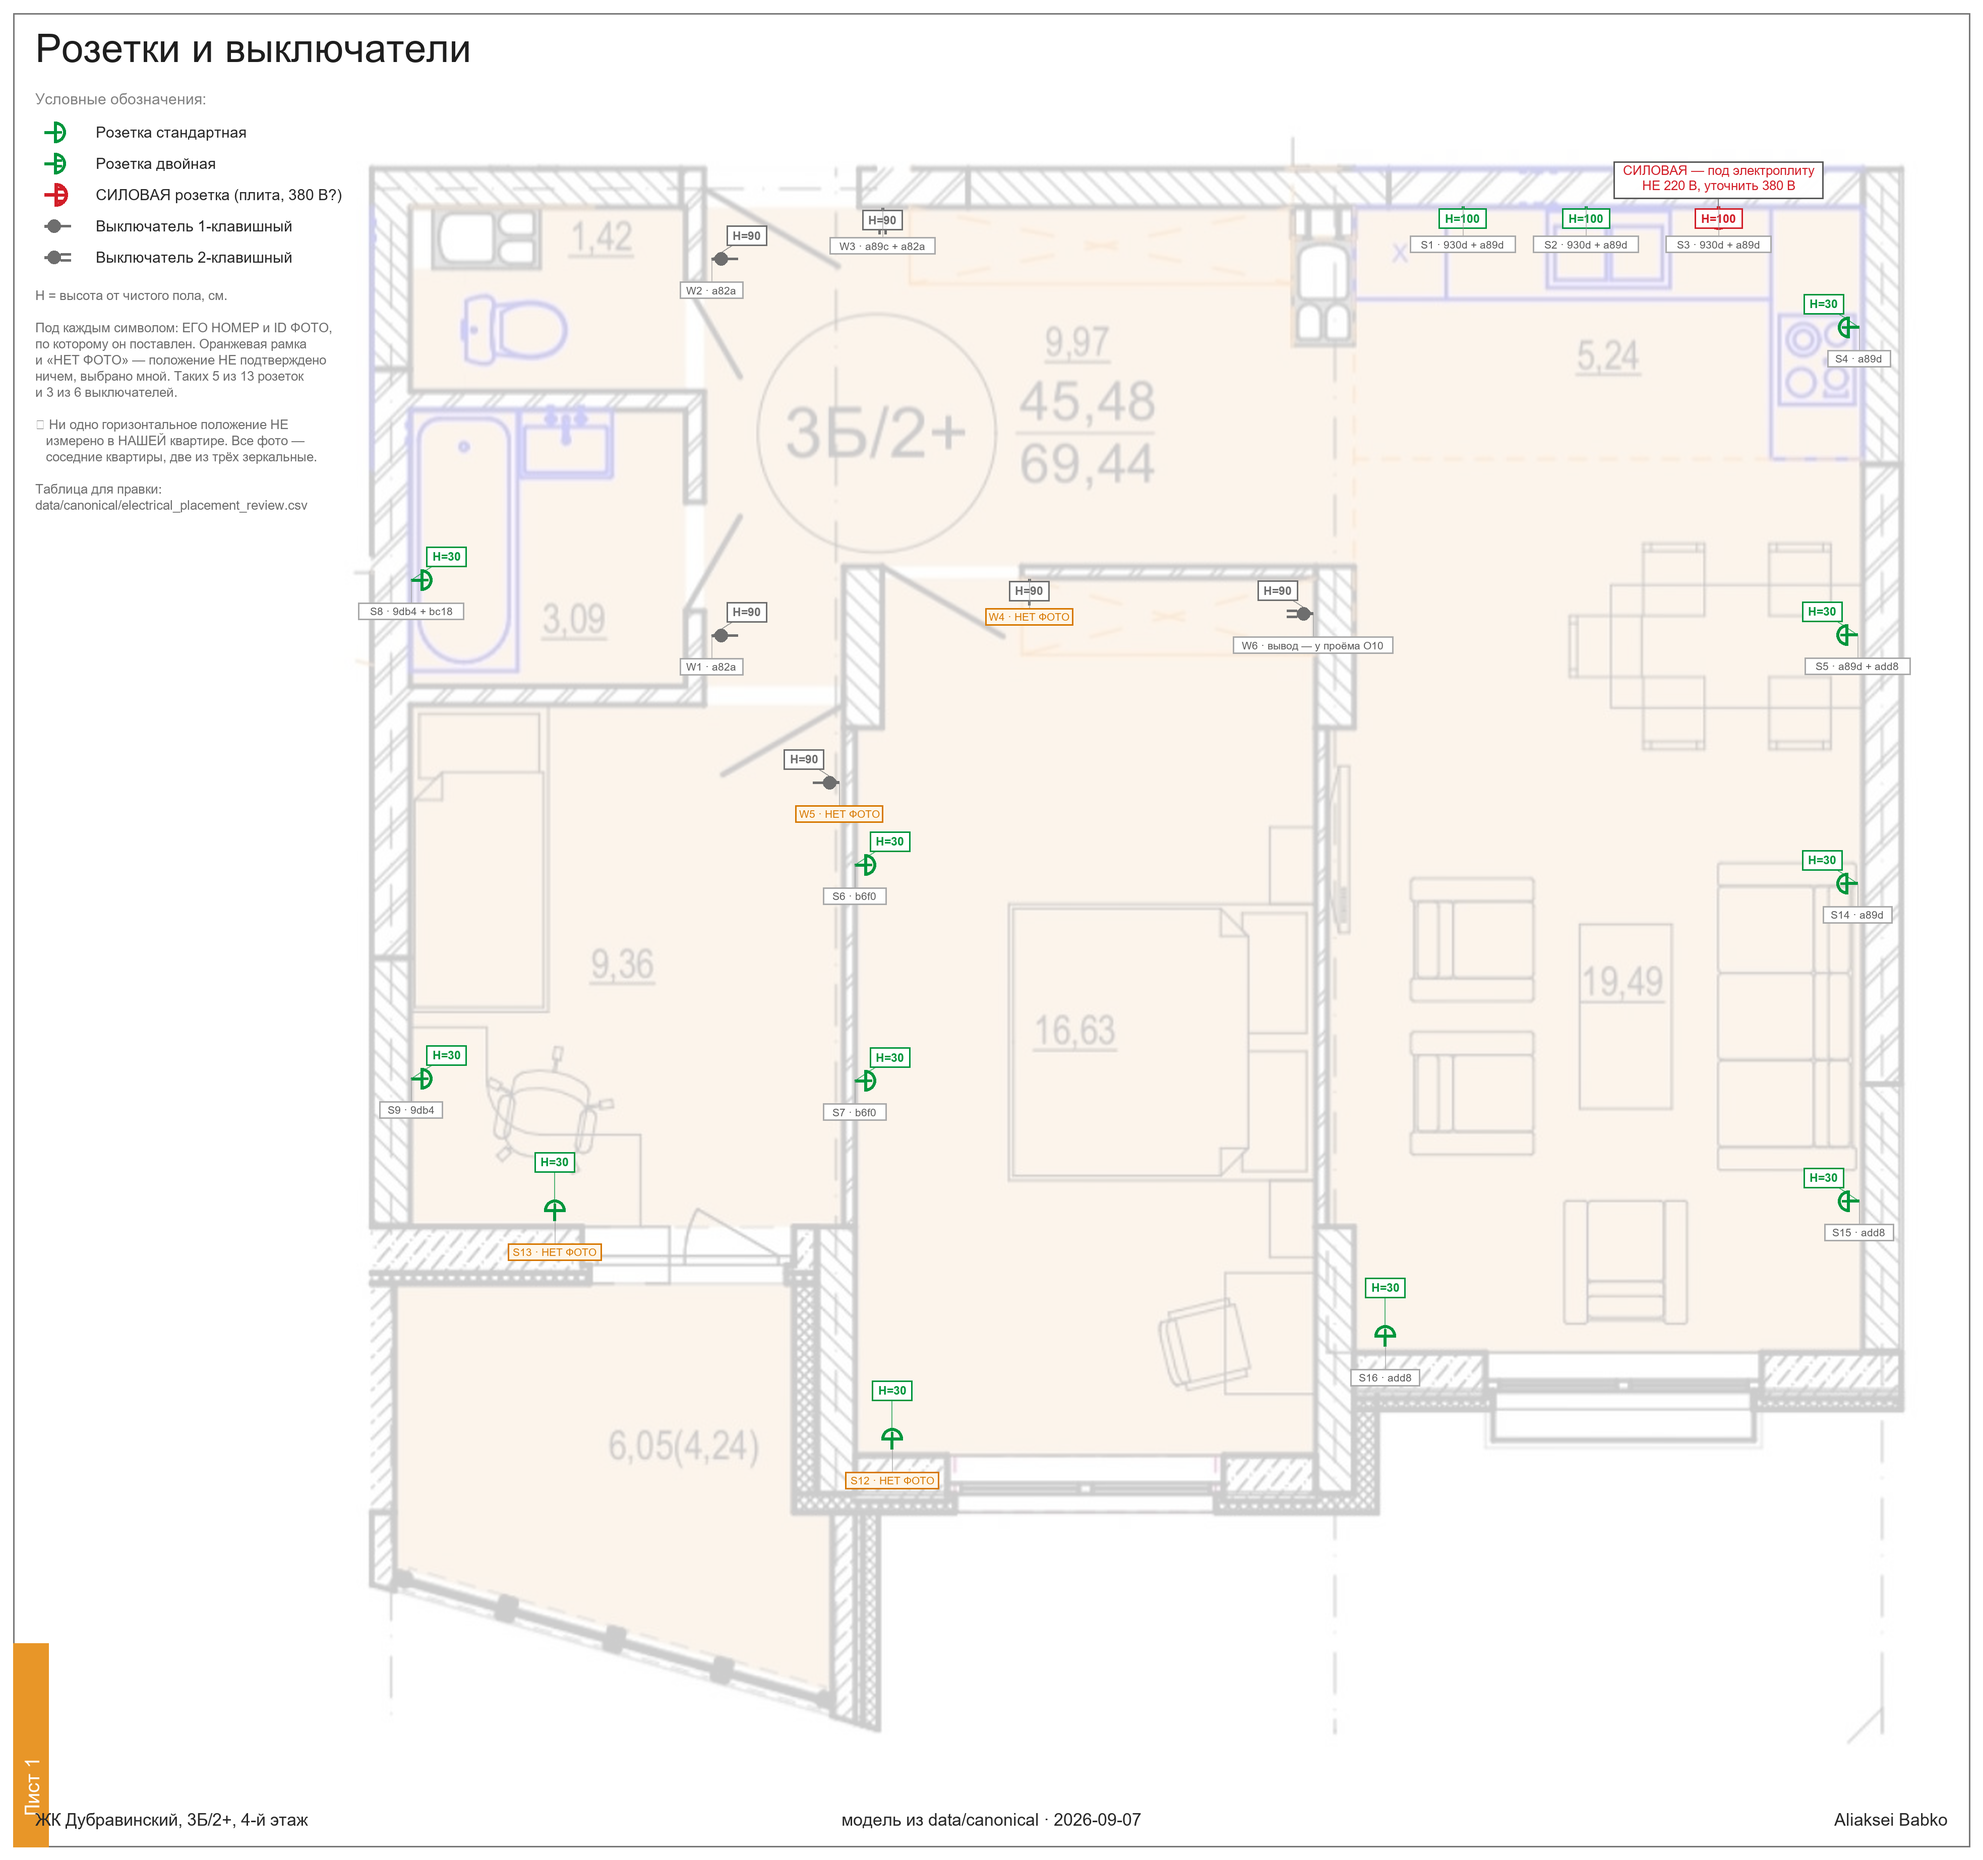
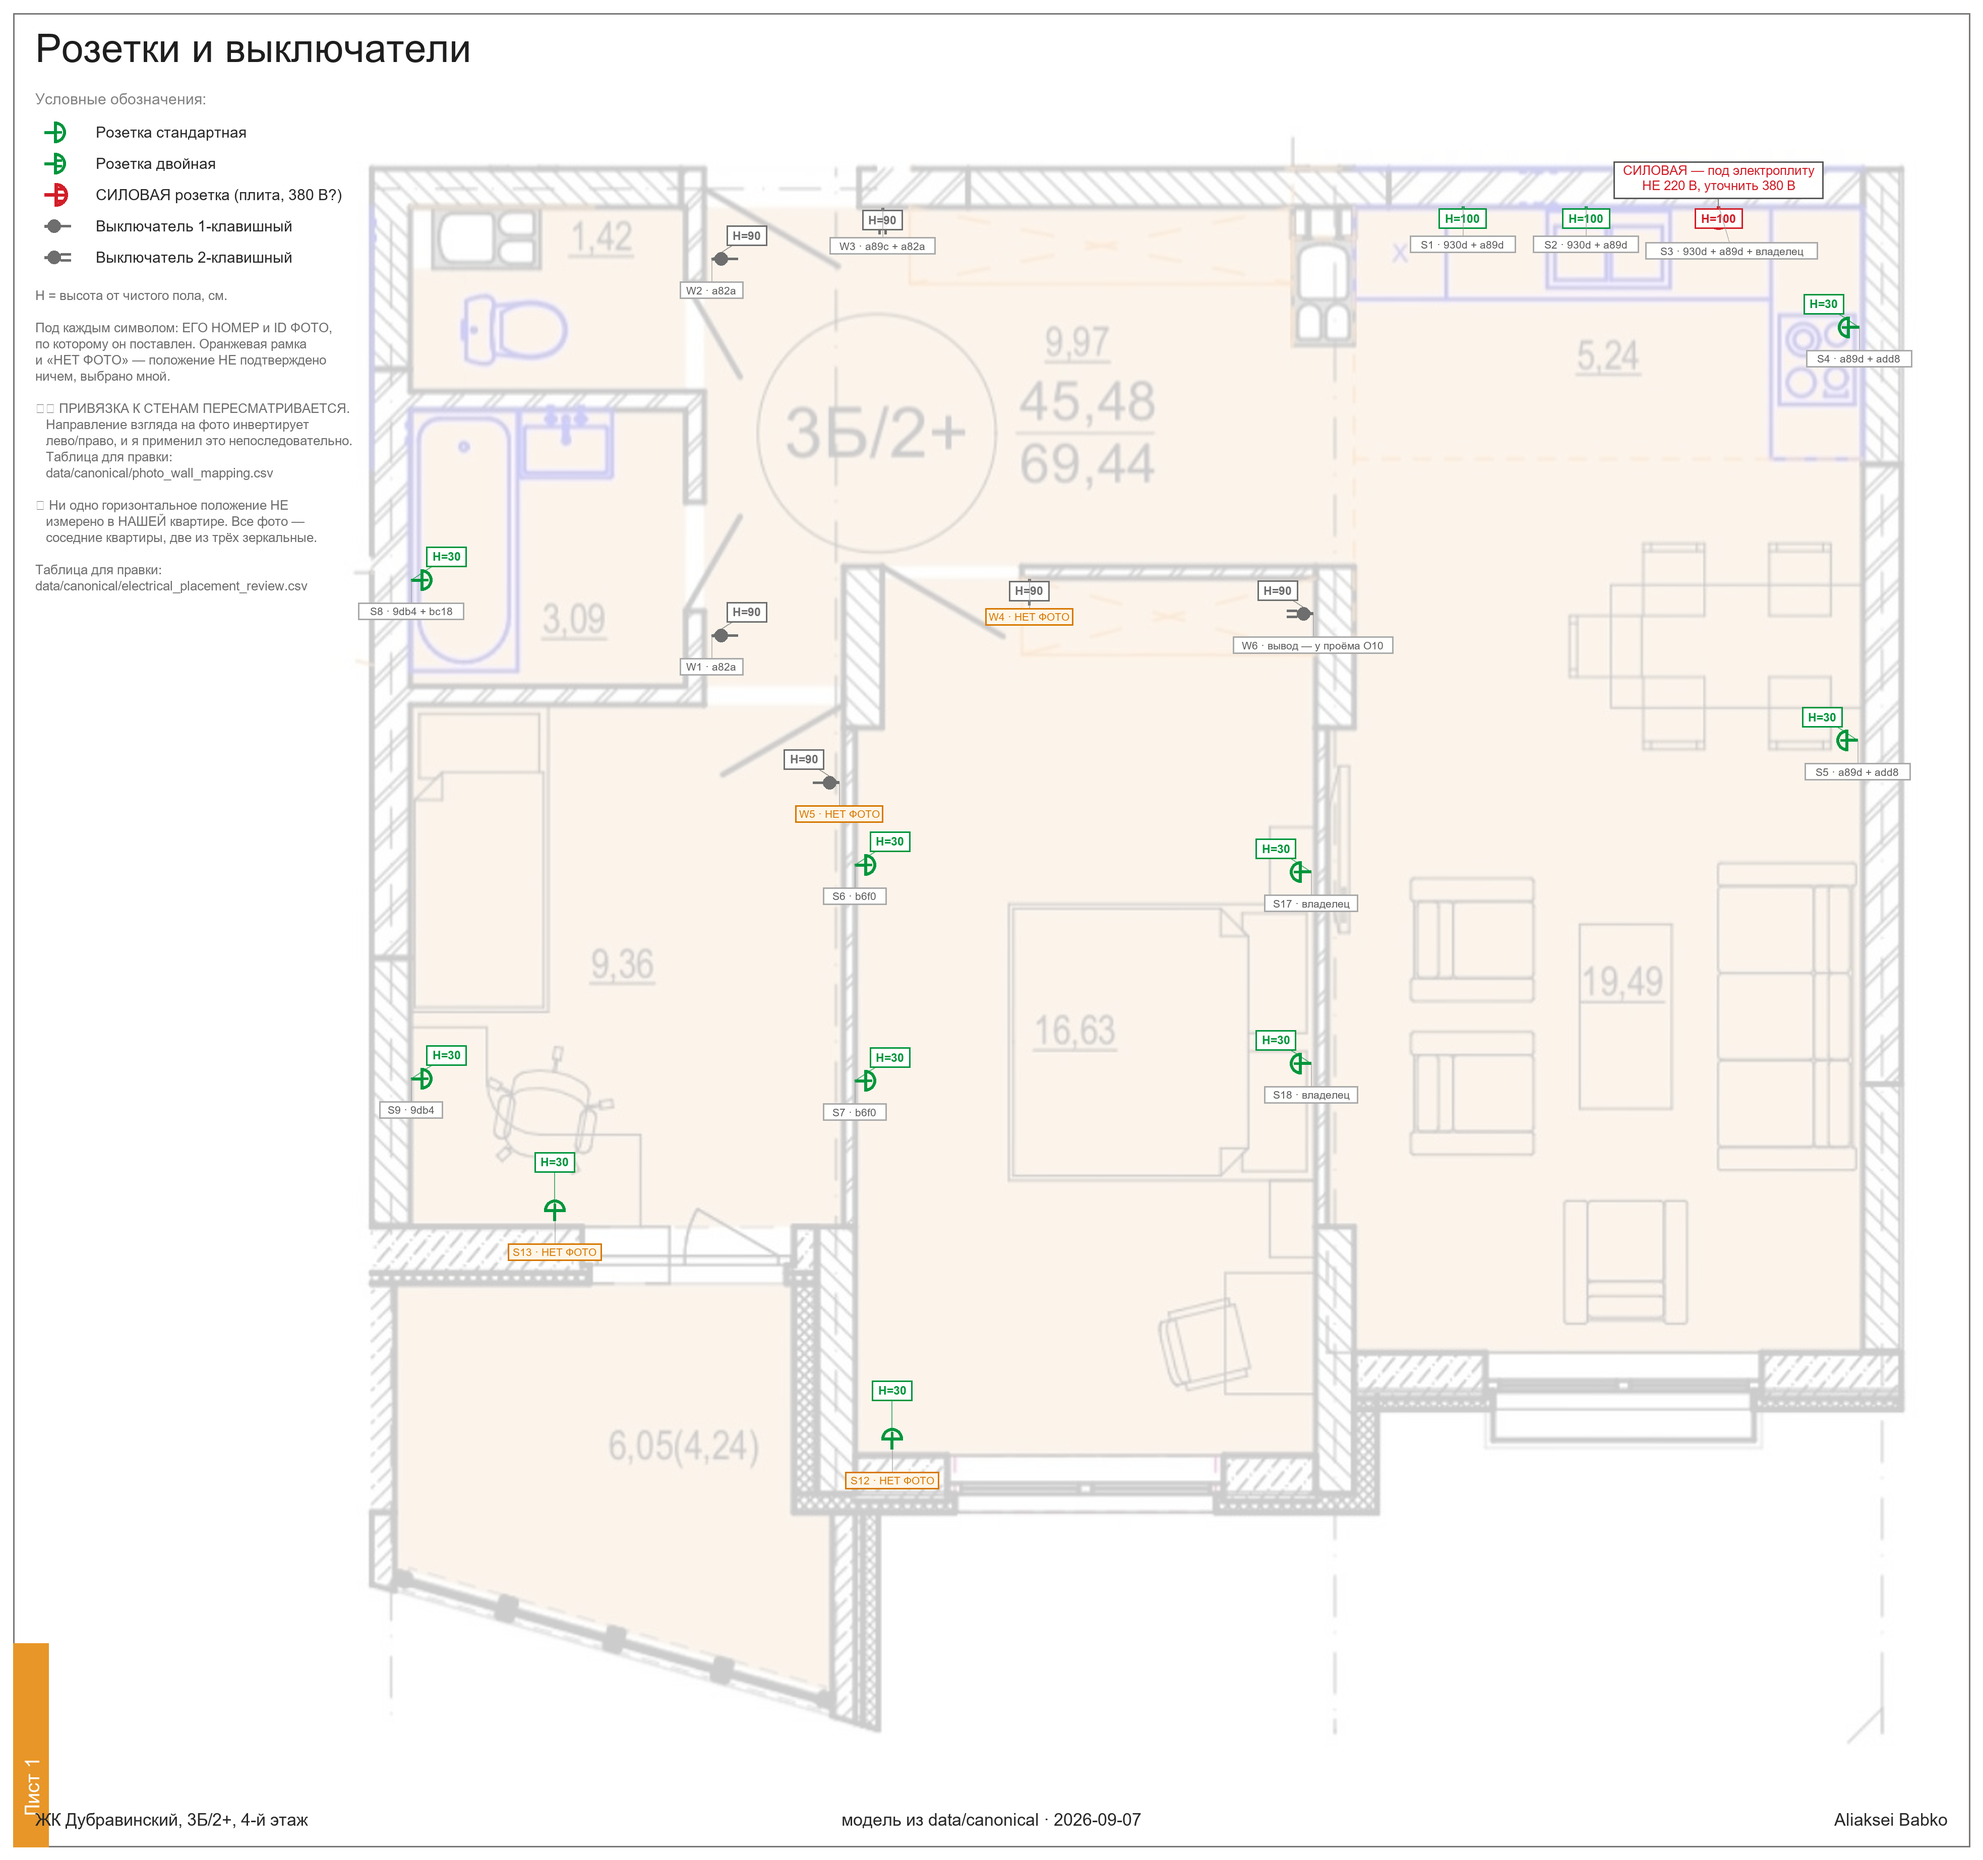
Wall assignment was wrong twice - stop inferring it, make it a table he corrects
THE ERROR: the view direction inverts left and right, and I did not apply it
consistently. Looking NE your left hand points NW; looking SE your left hand
points NE. So "the left wall" is a different compass wall in the two photos - and
I read left as west in both. a89d looking NE does have west on the left, but add8
looking SE has EAST on the left, which is our G7 rather than our party run. That
one inversion moved every socket in the room to the wrong wall.

AND CORRECTING IT WAS STILL NOT ENOUGH. Even with the inversion fixed, my counts
disagree with what he reads directly: G7 should carry TWO outlets and no switches
(I had zero, and before that a switch); MC the window wall should carry NONE (I
had one); the east party run has fewer than the four I drew. So this is not one
sign error - I cannot reliably read wall assignment off these photographs, and I
have now got it wrong twice while sounding confident both times.

THE FIX IS A TABLE HE CAN CORRECT: data/canonical/photo_wall_mapping.csv, one row
per photo with the view direction and which of OUR wall ids is far, left and
right, plus my_confidence and an empty owner_correction column. 27 photos, and
only 5 marked high confidence - 930d, 9902, 9e9b, a82a, ade6, the frontal ones.
The other 22 say uncertain.

Why a table rather than another drawing: the drawing is the wrong thing to
correct. Every placement derives from a wall assignment, so one error there
[…]

diff --git a/tools/layout/sheets/make_services_sheets.py b/tools/layout/sheets/make_services_sheets.py
@@ -21,29 +21,34 @@ NOPH = u'НЕТ ФОТО'
 
 # id, wall, t, face, gang, H cm, source photo ids, what the photo shows
 SOCK = [
- # КУХНЯ-ГОСТИНАЯ. The north-wall row is confirmed twice: 930d shows three at
- # H=100 above the worktop, a89d shows the same three at mid height on the far
- # wall. The third of them is the HOB line - see POWER below.
+ # ============ КУХНЯ-ГОСТИНАЯ ============
+ # The north-wall row is the only placement in this room with two independent
+ # photos agreeing: 930d (close to frontal, H=100 above the worktop) and a89d
+ # (the same three boxes at mid height on the far wall).
  ('S1', 'G3', 0.16, +1, 2, 100, '930d + a89d', u'ряд из 3 розеток над столешницей, H=100'),
  ('S2', 'G3', 0.42, +1, 2, 100, '930d + a89d', u'то же, средняя в ряду'),
- # the EAST long wall - three low boxes in a89d plus one in add8 (their WEST wall)
- ('S4', 'R2', 0.55, +1, 1, 30, 'a89d', u'низкая розетка на длинной стене (зеркальная кв.)'),
- ('S5', 'G5', 0.28, +1, 1, 30, 'a89d + add8', u'то же, вторая'),
- ('S14', 'G5', 0.68, +1, 1, 30, 'a89d', u'то же, третья'),
- ('S15', 'R7', 0.45, +1, 1, 30, 'add8', u'низкая розетка ближе к окну'),
- ('S16', 'MC', 0.06, -1, 1, 30, 'add8', u'розетка у откоса окна, вне зоны радиатора'),
- # СРЕДНЯЯ КОМНАТА
- ('S6', 'G8', 0.30, -1, 1, 30, 'b6f0', u'2 низкие розетки в средней комнате; СТЕНА не определена'),
+ # G7 - the wall to the middle room. TWO outlets, no switches, per the owner
+ # 2026-09-07. I had left it empty; before that I had put a switch on it.
+ ('S17', 'G7', 0.30, +1, 1, 30, u'владелец', u'ВЛАДЕЛЕЦ: на G7 две розетки, выключателей нет'),
+ ('S18', 'G7', 0.68, +1, 1, 30, u'владелец', u'то же, вторая'),
+ # the east party run - REDUCED from 4 to 2. The owner: "too many outlets on the
+ # bigger wall neighbouring the other apartment."
+ ('S4', 'R2', 0.55, +1, 1, 30, 'a89d + add8', u'низкая розетка на длинной стене (СЧЁТ уточняется)'),
+ ('S5', 'G5', 0.45, +1, 1, 30, 'a89d + add8', u'то же, вторая (СЧЁТ уточняется)'),
+ # MC, the window wall - NONE. Owner: "there are no outlets on the wall with the
+ # window, not a trace of it." S16 removed.
+ # ============ СРЕДНЯЯ КОМНАТА ============
+ ('S6', 'G8', 0.30, -1, 1, 30, 'b6f0', u'2 низкие розетки; СТЕНА не подтверждена'),
  ('S7', 'G8', 0.72, -1, 1, 30, 'b6f0', u'то же'),
  ('S12', 'MB', 0.08, -1, 1, 30, NOPH, u'—'),
- # КОМНАТА 9.36
- ('S8', 'G4a', 0.34, -1, 1, 30, '9db4 + bc18', u'розетки на боковых стенах комнаты 9.36'),
+ # ============ КОМНАТА 9.36 ============
+ ('S8', 'G4a', 0.34, -1, 1, 30, '9db4 + bc18', u'розетки на боковых стенах; СТЕНА не подтверждена'),
  ('S9', 'R6', 0.50, -1, 1, 30, '9db4', u'то же, вторая стена'),
  ('S13', 'MA', 0.42, -1, 1, 30, NOPH, u'—'),
 ]
 
 # СИЛОВАЯ розетка - its own list and its own symbol
-POWER = [('S3', 'G3', 0.70, +1, 100, '930d + a89d',
+POWER = [('S3', 'G3', 0.70, +1, 100, u'930d + a89d + владелец',
           u'третья в ряду, у электроплиты — владелец: НЕ 220 В, вероятно 380 В')]
 
 # id, wall, opening, jamb, face, gang, H, sources, what the photo shows
@@ -101,8 +106,12 @@ s.note([u'H = высота от чистого пола, см.', u'',
         u'Под каждым символом: ЕГО НОМЕР и ID ФОТО,',
         u'по которому он поставлен. Оранжевая рамка',
         u'и «НЕТ ФОТО» — положение НЕ подтверждено',
-        u'ничем, выбрано мной. Таких 5 из 13 розеток',
-        u'и 3 из 6 выключателей.', u'',
+        u'ничем, выбрано мной.',
+        u'', u'⚠⚠ ПРИВЯЗКА К СТЕНАМ ПЕРЕСМАТРИВАЕТСЯ.',
+        u'   Направление взгляда на фото инвертирует',
+        u'   лево/право, и я применил это непоследовательно.',
+        u'   Таблица для правки:',
+        u'   data/canonical/photo_wall_mapping.csv', u'',
         u'⚠ Ни одно горизонтальное положение НЕ',
         u'   измерено в НАШЕЙ квартире. Все фото —',
         u'   соседние квартиры, две из трёх зеркальные.',
